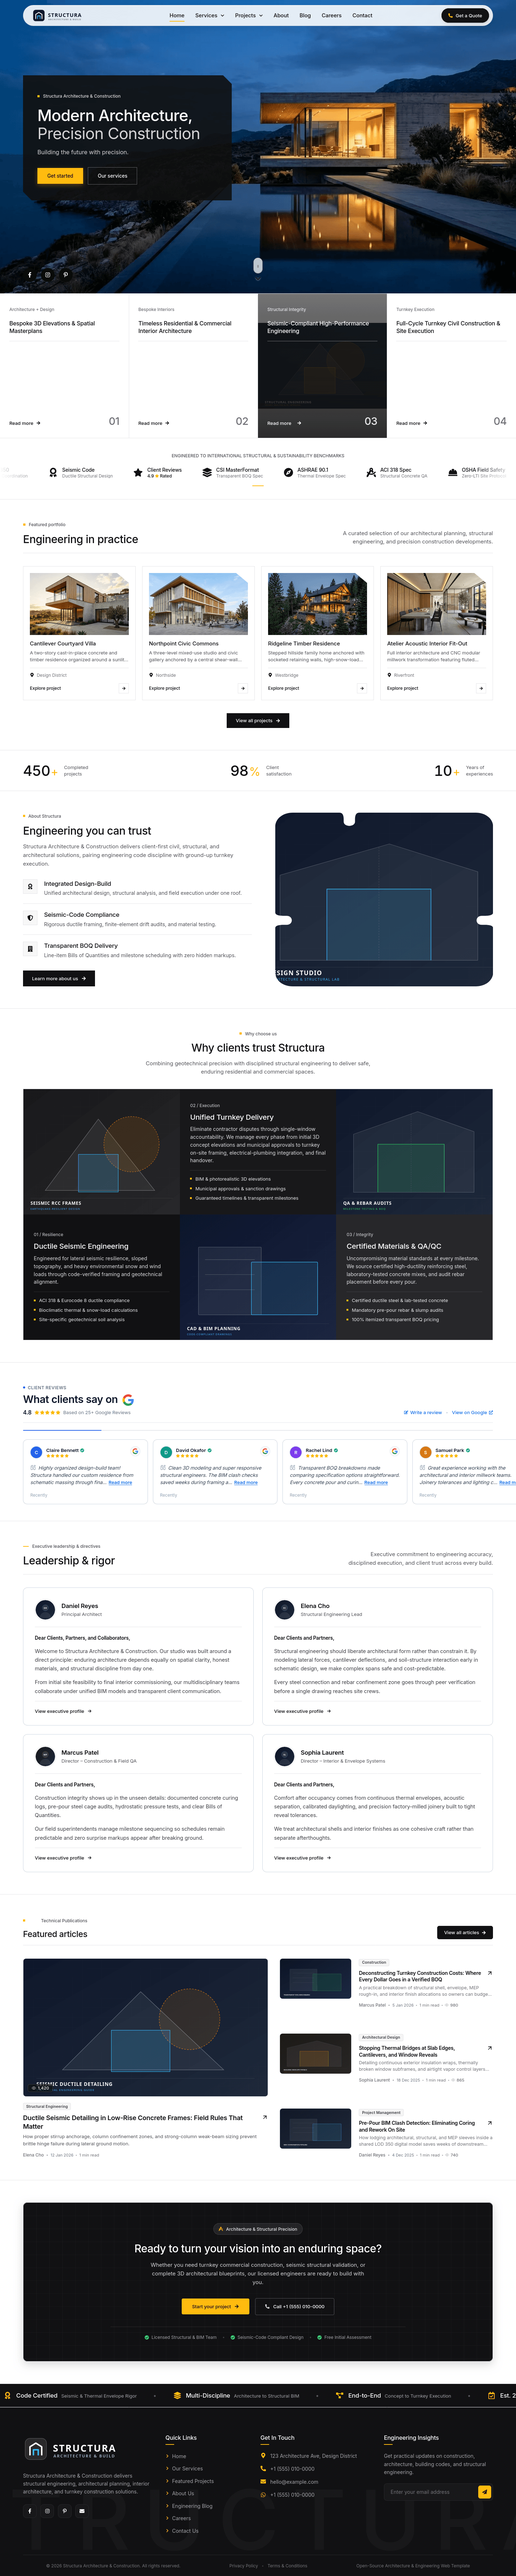
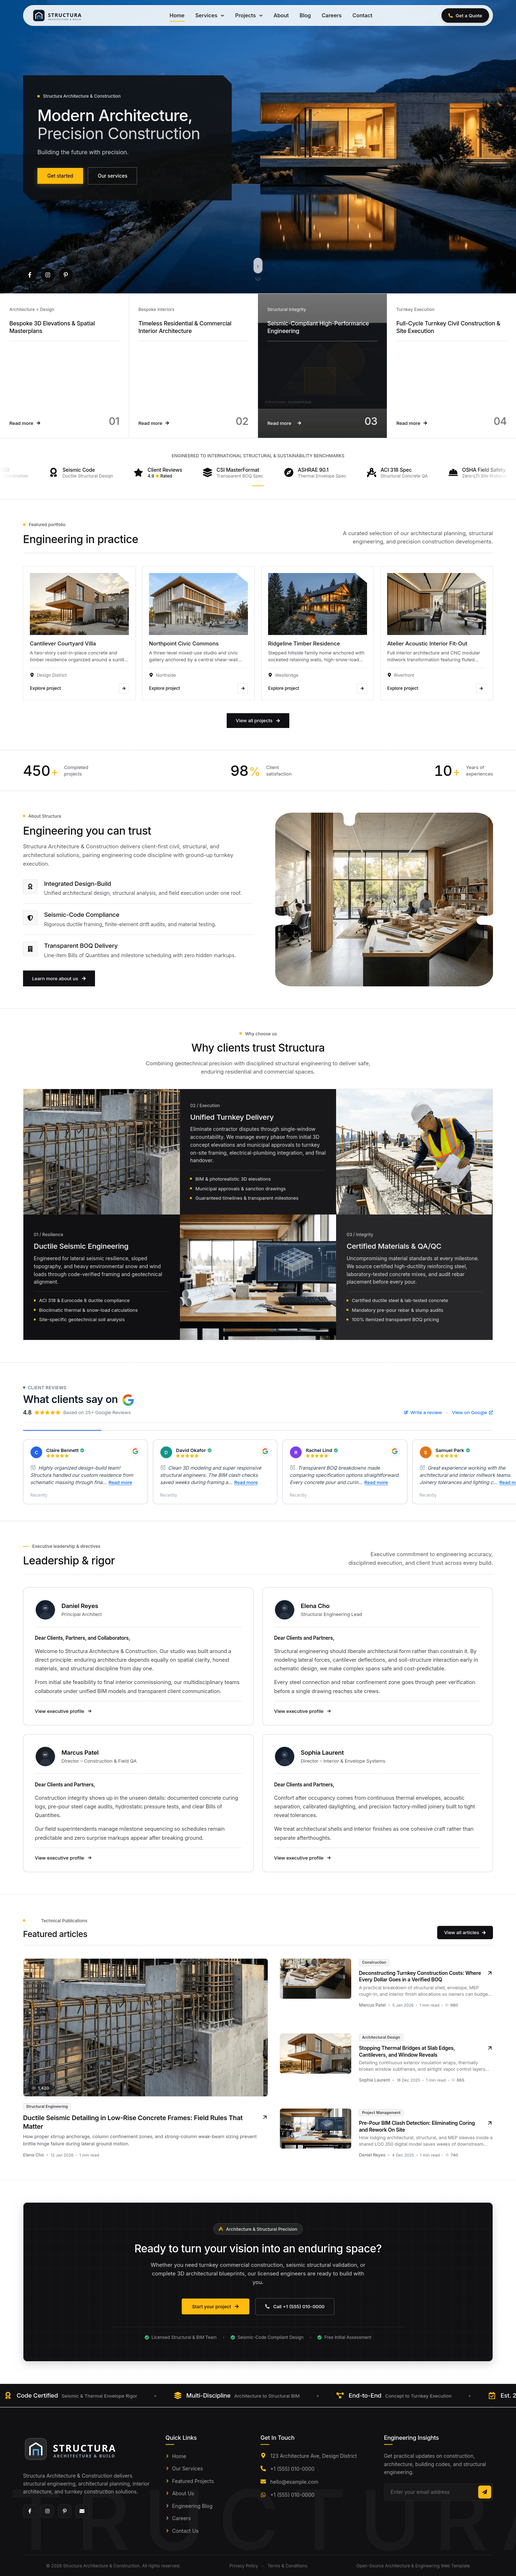
Replace geometric SVG graphics on Home, About, and Blog with real local photographs

Changed region(s): [[0.0307, 0.312, 0.9819, 0.5304], [0.0307, 0.7487, 0.675, 0.8423]]

diff --git a/src/data/demoContent.js b/src/data/demoContent.js
@@ -21,7 +21,7 @@ export const DEMO_PROJECTS = [
     gallery_images: [
       "/images/projects/courtyard-villa.webp",
       "/images/projects/courtyard-villa-interior.webp",
-      "/images/home/cad-drafting.svg",
+      "/images/home/cad-drafting.webp",
     ],
     hashtags: [
       "#ResidentialArchitecture",
@@ -210,7 +210,7 @@ export const DEMO_BLOGS = [
       "How proper stirrup anchorage, column confinement zones, and strong-column weak-beam sizing prevent brittle hinge failure during lateral ground motion.",
     bluf_summary:
       "Most field failures in concrete residences occur at beam-column joints and short columns rather than mid-span beams. Closely spaced 135-degree closed hooks and staggered rebar splices increase lateral drift resilience by over 35% with minimal added steel tonnage.",
-    cover_image_url: "/images/blog/seismic-detailing.svg",
+    cover_image_url: "/images/blog/seismic-detailing.webp",
     cover_image_alt: "Seismic concrete frame detailing and confinement diagram",
     author_id: "studio-0102",
     author_name: "Elena Cho",
@@ -289,7 +289,7 @@ Never terminate all vertical bars on a single plane; stagger splices so no more 
       "A practical breakdown of structural shell, envelope, MEP rough-in, and interior finish allocations so owners can budget accurately before mobilization.",
     bluf_summary:
       "Lump-sum per-square-foot quotes obscure specification trade-offs. Separating costs across Structure (48%), Finishes (24%), MEP (16%), and Roofing/Insulation (12%) prevents mid-project scope friction.",
-    cover_image_url: "/images/blog/boq-cost-breakdown.svg",
+    cover_image_url: "/images/blog/boq-cost-breakdown.webp",
     cover_image_alt: "Construction Bill of Quantities allocation chart",
     author_id: "studio-0103",
     author_name: "Marcus Patel",
@@ -389,7 +389,7 @@ Hold an unallocated 7–10% technical contingency strictly for subterranean surp
       "Detailing continuous exterior insulation wraps, thermally broken window subframes, and airtight vapor control layers across residential builds.",
     bluf_summary:
       "Uninsulated concrete slab edges and cantilevered balconies can undermine up to 30% of wall R-value. Continuous exterior sheathing paired with recessed triple glazing stabilizes indoor humidity and cuts peak heating/cooling loads.",
-    cover_image_url: "/images/blog/envelope-thermal.svg",
+    cover_image_url: "/images/blog/envelope-thermal.webp",
     cover_image_alt: "Thermal envelope section showing continuous insulation",
     author_id: "studio-0104",
     author_name: "Sophia Laurent",
@@ -428,7 +428,7 @@ Return rigid exterior insulation 30mm over window subframes to seal air infiltra
       "How lodging architectural, structural, and MEP sleeves inside a shared LOD 350 digital model saves weeks of downstream field delays.",
     bluf_summary:
       "Detecting HVAC trunk, plumbing stack, and recessed beam intersections prior to formwork saves 4–6% of direct site labor and preserves structural shear capacity.",
-    cover_image_url: "/images/blog/bim-workflow.svg",
+    cover_image_url: "/images/blog/bim-workflow.webp",
     cover_image_alt: "BIM clash detection coordination pipeline",
     author_id: "studio-0101",
     author_name: "Daniel Reyes",

diff --git a/src/data/services.js b/src/data/services.js
@@ -47,7 +47,7 @@ export const SERVICES_DATA = [
         caption: "Custom two-story residence combining cantilevered sunshades, natural stone plinths, and deep glazed openings.",
       },
       {
-        url: "/images/home/cad-drafting.svg",
+        url: "/images/home/cad-drafting.webp",
         title: "BIM & Working Drawing Coordination",
         tag: "Spatial Planning",
         caption: "Detailed multi-sheet CAD and Revit schedules aligning structural grids with partition tolerances.",
@@ -264,13 +264,13 @@ export const SERVICES_DATA = [
     ],
     gallery: [
       {
-        url: "/images/home/structural-frame.svg",
+        url: "/images/home/structural-frame.webp",
         title: "Seismic Frame Detailing",
         tag: "Lateral Systems",
         caption: "Confinement stirrup zones and lap-splice staggered layouts modeled for ductile energy dissipation.",
       },
       {
-        url: "/images/home/quality-inspection.svg",
+        url: "/images/home/quality-inspection.webp",
         title: "Pre-Pour Rebar Inspection",
         tag: "Field QA",
         caption: "Field engineers verifying cover blocks, development lengths, and coupler torque prior to concrete placement.",
@@ -394,7 +394,7 @@ export const SERVICES_DATA = [
         caption: "Continuous rigid thermal insulation paired with ventilated fiber-cement and stone rainscreen panels.",
       },
       {
-        url: "/images/about/studio-office.svg",
+        url: "/images/about/studio-office.webp",
         title: "Pre-Construction Cost Control",
         tag: "Transparent BOQ",
         caption: "Every trade package benchmarked and locked prior to breaking ground.",
@@ -493,7 +493,7 @@ export const SERVICES_DATA = [
         caption: "Standardized zoning summary tables, site key plans, and life-safety annotations.",
       },
       {
-        url: "/images/home/cad-drafting.svg",
+        url: "/images/home/cad-drafting.webp",
         title: "Topographic Contour Survey",
         tag: "Field Measurement",
         caption: "High-density spot levels mapping retaining wall heights, utility poles, and property corners.",

diff --git a/public/404.html b/public/404.html
@@ -9,14 +9,17 @@
   <link rel="icon" type="image/svg+xml" href="/favicon.svg" />
 </head>
 
-<body style="font-family:Inter,system-ui,-apple-system,sans-serif;margin:0;padding:4rem 1.5rem;text-align:center;color:#09090b;background:#ffffff;">
+<body
+  style="font-family:Inter,system-ui,-apple-system,sans-serif;margin:0;padding:4rem 1.5rem;text-align:center;color:#09090b;background:#ffffff;">
   <main id="main" style="max-width:560px;margin:0 auto;">
-    <img src="/images/404.svg" alt="Page Not Found" width="320" height="205" style="max-width:100%;height:auto;border-radius:10px;margin-bottom:1.5rem;" />
+    <img src="/images/404.svg" alt="Page Not Found" width="320" height="205"
+      style="max-width:100%;height:auto;border-radius:10px;margin-bottom:1.5rem;" />
     <h1 style="font-size:2rem;margin:0 0 0.75rem;">Page Not Found</h1>
     <p style="color:#52525b;line-height:1.6;margin:0 0 1.5rem;">
       The page you are looking for does not exist or has been moved.
     </p>
-    <a href="/" style="display:inline-block;padding:0.75rem 1.5rem;background:#0f172a;color:#ffffff;text-decoration:none;border-radius:8px;font-weight:600;">
+    <a href="/"
+      style="display:inline-block;padding:0.75rem 1.5rem;background:#0f172a;color:#ffffff;text-decoration:none;border-radius:8px;font-weight:600;">
       Return Home
     </a>
   </main>

diff --git a/src/components/home/WhyTrustUs.jsx b/src/components/home/WhyTrustUs.jsx
@@ -3,9 +3,9 @@ import { FaSquare } from "react-icons/fa";
 import styles from "./WhyTrustUs.module.css";
 
 const TRUST_MOSAIC_IMAGES = {
-  seismic: "/images/home/structural-frame.svg",
-  turnkey: "/images/home/cad-drafting.svg",
-  quality: "/images/home/quality-inspection.svg",
+  seismic: "/images/home/structural-frame.webp",
+  turnkey: "/images/home/cad-drafting.webp",
+  quality: "/images/home/quality-inspection.webp",
 };
 
 export default function WhyTrustUs() {

diff --git a/src/pages/Contact/Contact.jsx b/src/pages/Contact/Contact.jsx
@@ -443,7 +443,7 @@ export default function Contact() {
             <div className={styles.mapCard}>
               <div className={styles.mapFrameWrapper}>
                 <img
-                  src="/images/about/studio-office.svg"
+                  src="/images/about/studio-office.webp"
                   alt="Structura Studio Location — 123 Architecture Ave, Design District"
                   className={styles.mapIframe}
                   loading="lazy"

diff --git a/src/components/about/AboutHero.jsx b/src/components/about/AboutHero.jsx
@@ -3,8 +3,8 @@ import { Link } from "react-router-dom";
 import { FaHome } from "react-icons/fa";
 import styles from "./AboutHero.module.css";
 
-const defaultHeroImage = "/images/about/studio-office.svg";
-const fallbackOffice = "/images/about/studio-office.svg";
+const defaultHeroImage = "/images/about/studio-office.webp";
+const fallbackOffice = "/images/about/studio-office.webp";
 
 const FEATURE_COLUMNS = [
   {

diff --git a/src/components/home/AboutBento.jsx b/src/components/home/AboutBento.jsx
@@ -8,7 +8,7 @@ import {
   FaBuilding,
   FaArrowRight,
 } from "react-icons/fa";
-const officeImage = "/images/about/studio-office.svg";
+const officeImage = "/images/about/studio-office.webp";
 import styles from "./AboutBento.module.css";
 
 const CREDENTIAL_PILLARS = [
